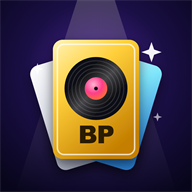
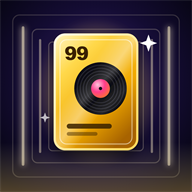
Collection : nos cartes d'affilée ; bouton Continuer fixé en bas ; lumières du bas à la couleur de la carte ; album sans pochette dans la walkout ; nouvelle icône

diff --git a/script.js b/script.js
@@ -208,7 +208,7 @@ function tunnel(){
   const h=run.wos.length?"board":run.best.tier==="epique"?"rare":"plain";
   scene.innerHTML=`<div class="flash"></div><div class="endcard h-${h}"></div>`;
   later(()=>scene.querySelector(".flash")?.remove(),520);
-  open.classList.add("run");if(h==="board")later(()=>open.classList.add("board"),900);haptic(14);
+  open.classList.add("run");if(h==="board")later(()=>{open.dataset.fl=colorOf(run.wos[run.wos.length-1]);open.classList.add("board")},900);haptic(14);
   later(()=>{open.classList.remove("board");open.dataset.fl=colorOf(run.wos.length?run.wos[run.wos.length-1]:run.best);if(run.wos.length){run.phase="wo";open.classList.replace("run","wo");run.step=0;step()}else{run.cur=run.best;reveal()}},1800);
 }
 // walkout : le pays, l'artiste, l'album, puis la carte
@@ -219,11 +219,11 @@ function step(){
     `<div class="wstep"><small>Artiste</small><strong>${esc(c.artist)}</strong></div>`,
     c.kind==="icone"
       ?`<div class="wstep"><small>Carte spéciale</small>${coverHTML(a.id,"round")}<strong>Icône</strong></div>`
-      :`<div class="wstep"><small>Album · ${a.y}</small>${coverHTML(a.id)}<strong style="font-size:min(9vw,46px)">${esc(a.t)}</strong></div>`
+      :`<div class="wstep"><small>Album · ${a.y}</small><strong style="font-size:min(12vw,64px)">${esc(a.t)}</strong></div>`
   ];
   if(run.step>=steps.length){reveal();return}
   scene.innerHTML=steps[run.step++];
-  hint("Touche pour passer");haptic(10);
+  hint("");haptic(10);
   later(step,1600);
 }
 function reveal(){
@@ -258,11 +258,11 @@ function recap(){
   open.classList.remove("run","wo");open.classList.add("recapmode");hint("");
   const seen=new Set(),n=run.cards.length;
   // la grille est calculée pour tenir dans l'écran, sans défilement
-  const gap=8,W=Math.min(innerWidth-36,520),H=innerHeight-230;
+  const gap=8,W=Math.min(innerWidth-36,520),H=(visualViewport?.height||innerHeight)-290;
   const size=c=>{const r=Math.ceil(n/c);return Math.floor(Math.min((W-gap*(c-1))/c,((H-gap*(r-1))/r)*.72,170))};
   let cols=1;for(let c=2;c<=Math.min(n,5);c++)if(size(c)>size(cols))cols=c; // le nombre de colonnes qui donne les plus grandes cartes
   const w=size(cols);
-  scene.innerHTML=`<div class="recap"><h2>Ton pack</h2><p class="note" style="margin:-10px 0 0">Touche une carte pour la voir, la vendre ou l’offrir.</p><div class="recapgrid" style="grid-template-columns:repeat(${cols},${w}px);gap:${gap}px">${run.cards.map((c,i)=>{const f=run.fresh.has(c.key)&&!seen.has(c.key);seen.add(c.key);return cw(c,{fresh:f,i,tap:true})}).join("")}</div><button class="btn go" id="done">Continuer</button></div>`;
+  scene.innerHTML=`<div class="recap"><h2>Ton pack</h2><p class="note" style="margin:-10px 0 0">Touche une carte pour la voir, la vendre ou l’offrir.</p><div class="recapgrid" style="grid-template-columns:repeat(${cols},${w}px);gap:${gap}px">${run.cards.map((c,i)=>{const f=run.fresh.has(c.key)&&!seen.has(c.key);seen.add(c.key);return cw(c,{fresh:f,i,tap:true})}).join("")}</div></div><div class="recapbar"><button class="btn go" id="done">Continuer</button></div>`;
   $("done").onclick=closePack;
 }
 function closePack(){
@@ -368,11 +368,12 @@ function renderClub(){
       const ic=CARD[a.icone];
       html=`<button class="back" data-back="artist">‹ ${esc(a.n)}</button><h1>Carte Icône</h1><div class="grid">${has(ic.key)?cw(ic,{qty:state.owned[ic.key],tap:true,fresh:isNew(ic.key)}):`<div class="cw"><div class="card ghost"><b>★</b><span>${esc(a.n)}</span></div></div>`}</div>`;
     }else{
-      const cards=al.tr.map((tr,i)=>{const t=CARD[`t:${al.id}:${i}`];return has(t.key)?cw(t,{qty:state.owned[t.key],tap:true,fresh:isNew(t.key)}):`<div class="cw"><div class="card ghost"><b>#${i+1}</b><span>${esc(tr[0])}</span></div></div>`}).join("");
+      const mine=[],miss=[];
+      al.tr.forEach((tr,i)=>{const t=CARD[`t:${al.id}:${i}`];if(has(t.key))mine.push(cw(t,{qty:state.owned[t.key],tap:true,fresh:isNew(t.key)}));else miss.push(`<div class="cw"><div class="card ghost"><b>#${i+1}</b><span>${esc(tr[0])}</span></div></div>`)});
       const holos=al.tr.map((_,i)=>CARD[`h:${al.id}:${i}`]).filter(h=>h&&has(h.key)).map(h=>cw(h,{qty:state.owned[h.key],tap:true,fresh:isNew(h.key)})).join("");
       html=`<button class="back" data-back="artist">‹ ${esc(a.n)}</button>
         <div class="ahero alb">${coverHTML(al.id)}<div><h1 style="font-size:26px">${esc(al.t)}</h1><small>${esc(a.n)} · ${al.y} · ${albumOwned(al)}/${al.tr.length} titres</small></div></div>
-        <div class="grid">${cards}${holos}</div>`;
+        <div class="grid">${mine.join("")}${holos}${miss.join("")}</div>`;
     }
   }
   el.innerHTML=html;

diff --git a/style.css b/style.css
@@ -289,7 +289,7 @@ input::placeholder{color:var(--dim)}
 .endcard.h-rare{border-color:rgba(255,241,201,.75);outline:2px solid rgba(255,241,201,.4);outline-offset:4px;box-shadow:0 0 30px rgba(255,241,201,.3)}
 .endcard.h-board{width:min(24vw,100px);margin:calc(min(24vw,100px) / -1.44) 0 0 calc(min(24vw,100px) / -2);border-radius:3px;background:#fffdf3;border:0;box-shadow:0 0 40px 14px rgba(255,248,225,.75),0 0 120px 40px rgba(255,241,201,.35)}
 @keyframes approach{from{transform:scale(.35);opacity:0}25%{opacity:1}to{transform:scale(1.15);opacity:1}}
-.flare{position:absolute;bottom:-10vh;width:22vw;max-width:160px;height:130vh;background:linear-gradient(to top,var(--fl),transparent 75%);filter:blur(18px);opacity:0;transform-origin:bottom center}
+.flare{position:absolute;bottom:-10vh;width:26vw;max-width:180px;height:130vh;background:linear-gradient(to top,var(--fl),transparent 70%);filter:blur(16px);opacity:0;transform-origin:bottom center;transition:background .4s}
 .flare.l{left:8%;transform:rotate(-22deg)} .flare.r{right:8%;transform:rotate(22deg)}
 .open.board .flare{animation:flare 1.2s ease-out both}
 .open.board .flare.r{animation-delay:.1s}
@@ -298,7 +298,7 @@ input::placeholder{color:var(--dim)}
 .open.run .floor{opacity:.22}
 .open.board .floor,.open.wo .floor{opacity:.45}
 .open.wo .ring{border-color:var(--fl);animation-duration:3s;opacity:.4}
-.open.wo .flare{opacity:.5;animation:sway 3s ease-in-out infinite alternate}
+.open.wo .flare{opacity:.85;animation:sway 3s ease-in-out infinite alternate}
 .open.wo .flare.r{animation-name:swayR;animation-delay:-1.5s}
 @keyframes sway{from{transform:rotate(-28deg)}to{transform:rotate(-12deg)}}
 @keyframes swayR{from{transform:rotate(28deg)}to{transform:rotate(12deg)}}
@@ -336,6 +336,11 @@ input::placeholder{color:var(--dim)}
 .recapgrid{display:grid;justify-content:center}
 .recapgrid .cw{cursor:pointer;animation:cardflip .6s calc(var(--i) * 90ms) cubic-bezier(.2,1.2,.35,1) both}
 .recap .btn{max-width:300px;flex:none}
+.recapbar{position:fixed;left:0;right:0;bottom:0;z-index:4;display:flex;justify-content:center;padding:16px 18px calc(18px + env(safe-area-inset-bottom));background:linear-gradient(to top,#0b0a14 55%,transparent)}
+.recapbar .btn{width:min(320px,100%)}
+.recapbar .btn.go{min-height:58px;font-size:19px;box-shadow:0 0 0 3px rgba(255,255,255,.25),0 12px 34px -6px var(--pink);animation:gopulse 1.6s ease-in-out infinite}
+.open.recapmode .scene{justify-content:flex-start;padding-top:8px;min-height:0}
+.open.recapmode .skip{display:none}
 .recap .btn.go{min-height:58px;font-size:19px;box-shadow:0 0 0 3px rgba(255,255,255,.25),0 12px 34px -6px var(--pink);animation:gopulse 1.6s ease-in-out infinite}
 @keyframes gopulse{50%{transform:scale(1.04);box-shadow:0 0 0 5px rgba(255,255,255,.12),0 16px 40px -6px var(--orange)}}
 @media (prefers-reduced-motion:reduce){*,*::before,*::after{animation-duration:.01ms!important;animation-iteration-count:1!important;transition-duration:.01ms!important}}
